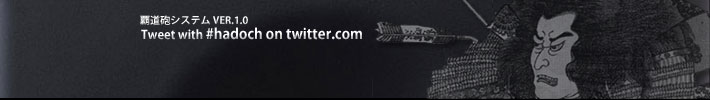
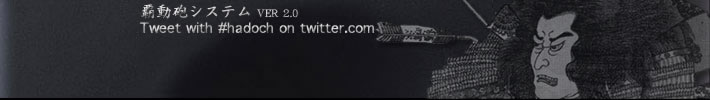
update backgroud image

Changed region(s): [[0.1859, 0.03, 0.5268, 0.39]]

diff --git a/public_html/hadogun_common/main.css b/public_html/hadogun_common/main.css
@@ -6,14 +6,13 @@
     padding:0px;
     overflow: hidden;
     margin:0px;
-    margin-top:45px;
+    margin-top:40px;
 }
 
 #tweet-list li{
     width: 420px;
-    border-bottom: 1px solid black;
     background-color: transparent;
-    font-size: 8pt;
+    font-size: 8px;
     color: #EEEEEE;
 }
 
